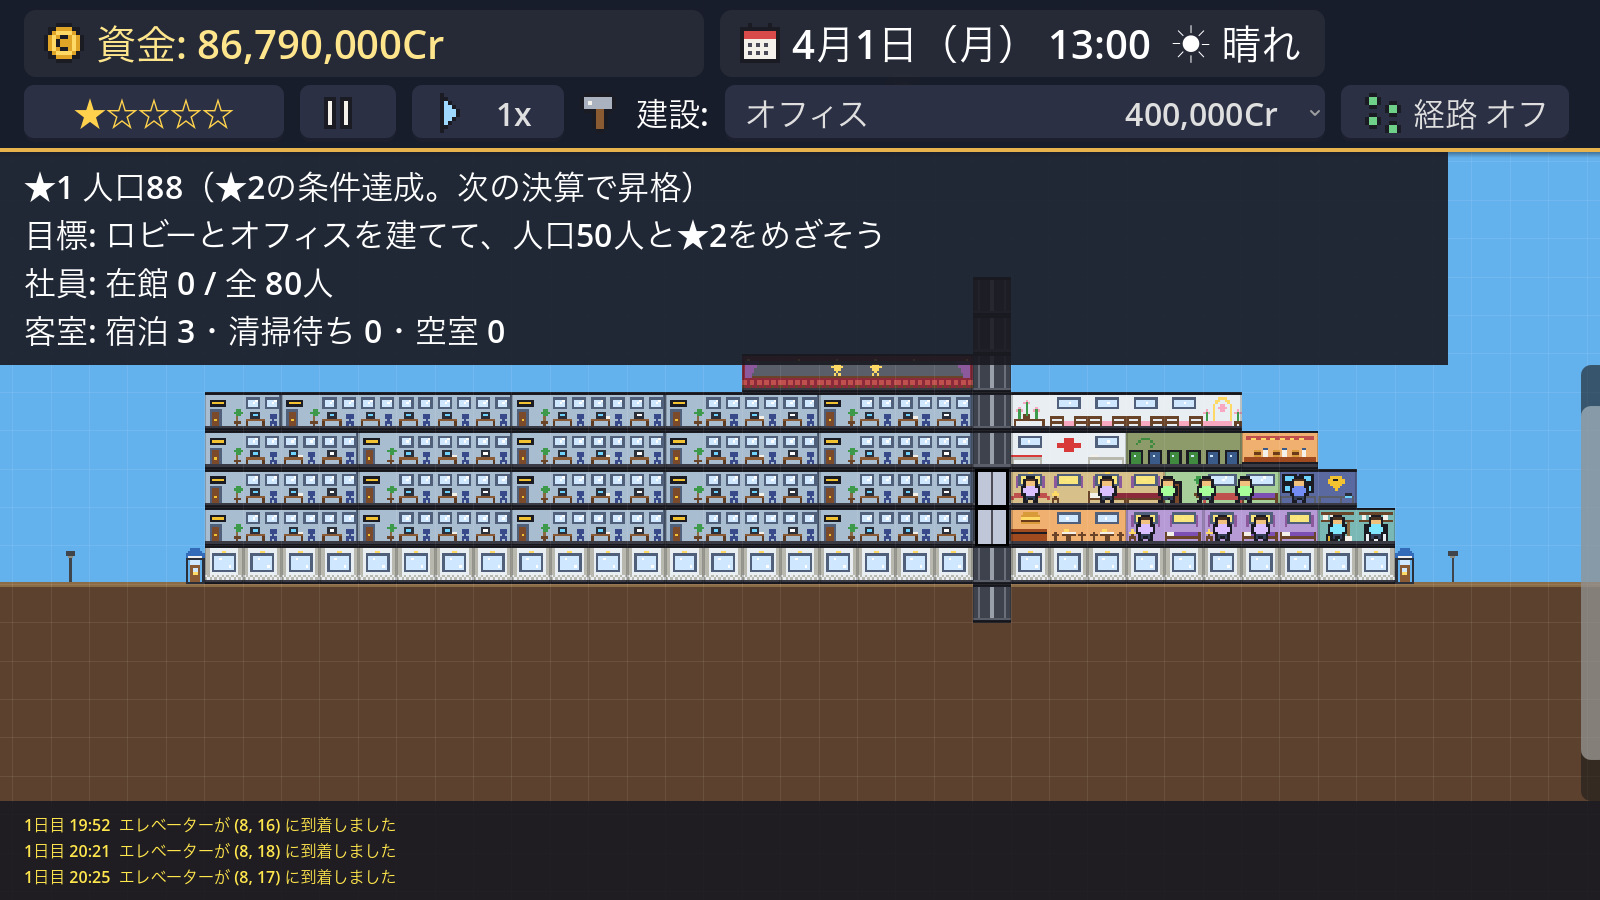
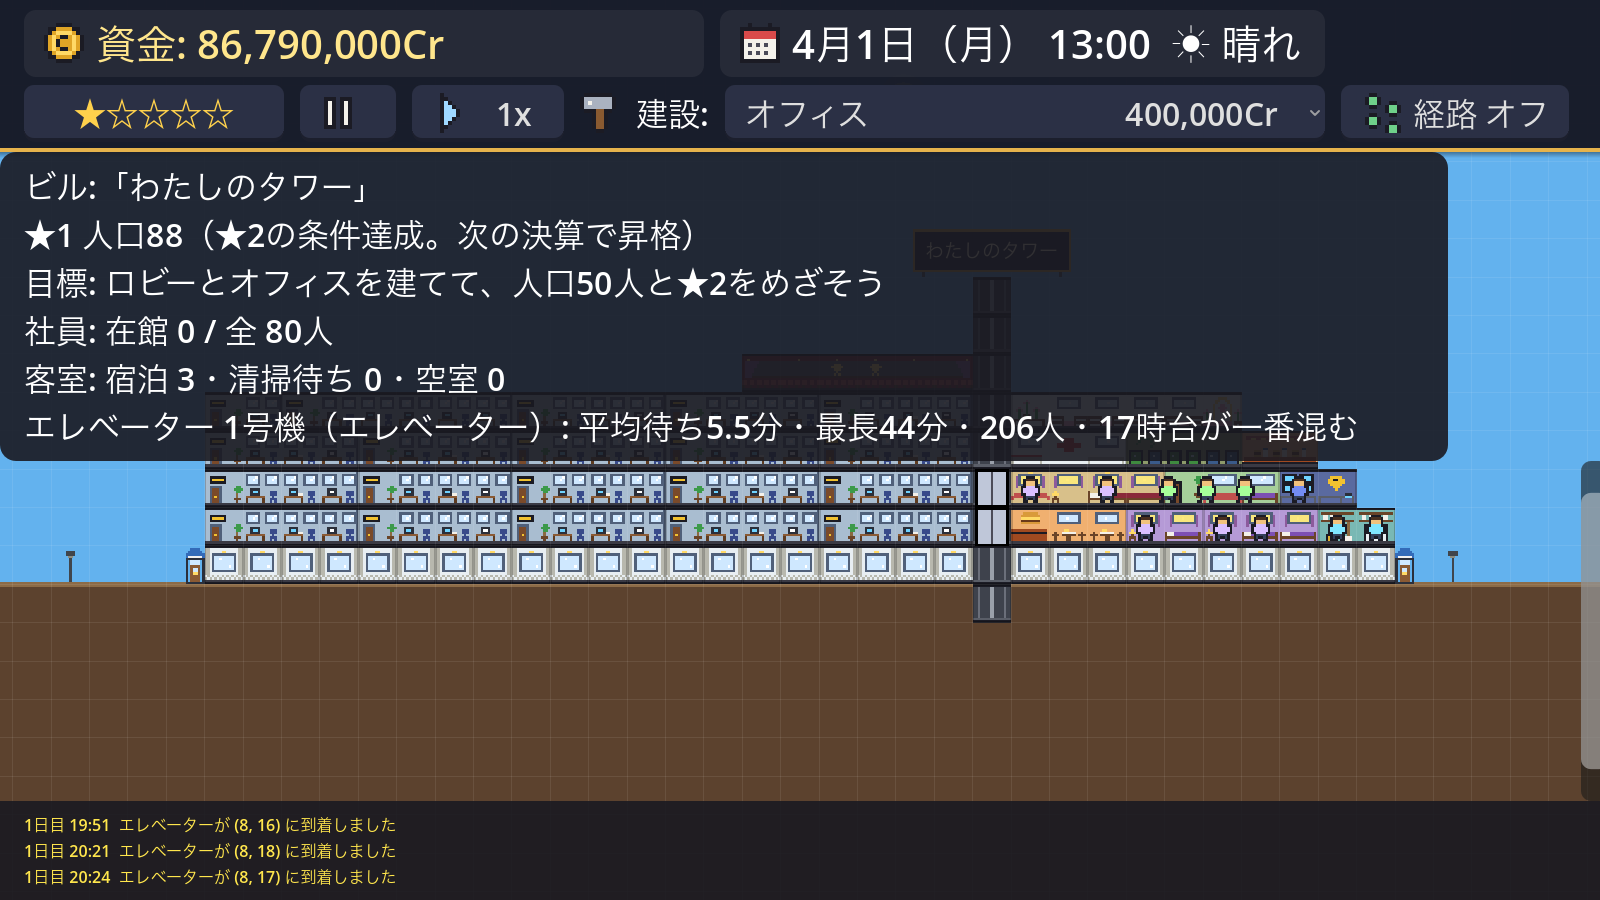
feat: ビルに名前を付けて、屋上の看板に出す
- タイトル画面の入力欄と、メニューの「ビルの名前を変える」で付ける（16文字まで）
- 一番上の階の屋根に看板を立てる（夜は光る）。ビルの状況・ウィンドウのタイトル・セーブの枠・タワー完成の画面にも出す
- 名前を打っている間は、WASDで画面を動かさない

Changed region(s): [[0.0, 0.1867, 0.9062, 0.5289], [0.9688, 0.4044, 1.0, 0.56], [0.9688, 0.84, 1.0, 0.8711]]

diff --git a/docs/Game_Spec.md b/docs/Game_Spec.md
@@ -110,6 +110,10 @@
 - `icon.svg` はビルの絵。`project.godot` に説明とバージョンを入れてある。
 - 書き出しにはエクスポートテンプレート（Godot エディタからダウンロード）が必要。
 
+### ビルの名前 ✅
+- `main.tower_name`（16文字まで。空ならはじめの名前「わたしのタワー」）。タイトル画面の入力欄と、メニューの「ビルの名前を変える」で付ける（`set_tower_name()`）。名前を打っている間は、WASDで画面を動かさない。
+- `view/tower_sign.gd` が、ビルの一番上の階の真ん中の屋根に看板を立てて名前を描く（夜は光る。文字は画面の拡大率に合わせた大きさで描き、ぼやけさせない）。ビルの状況の一番上・ウィンドウのタイトル・セーブの枠・「タワー完成」の画面にも出る。セーブに残る。
+
 ### エレベーターの成績 ✅
 - 人が乗り場で待ち始めた時刻（`resident.wait_started`）から、カゴに乗るまでの分を `elevator_system.record_wait()` がシャフトごとに数える（乗った人数・待った分の合計と最長・時間帯ごとの人数）。日付が変わると数え直す。
 - ビルの状況に、平均待ち時間の長いシャフトから3本まで出し（`stats_lines()`）、シャフトのカーソルの説明にも出す。シャフトは左から「1号機・2号機…」（`shaft_order`。建設・撤去のときに数え直す）。

diff --git a/README.md b/README.md
@@ -159,6 +159,7 @@ godot --path . -s res://tools/generate_readme_images.gd
 | 開いているパネルを閉じる | Esc（操作説明・メッセージの記録・収支のグラフ・ビルの状況） |
 | メッセージの記録 | ⌘L（ゲーム開始からのメッセージを時刻つきで表示） |
 | 画面の拡大・縮小 | ⌘+ / ⌘-（⌘0 でもとの大きさに戻る） |
+| ビルの名前 | タイトル画面の「ビルの名前」に入れて始める。遊んでいる途中は、メニューの「ゲーム > ビルの名前を変える」（16文字まで）。屋上の看板・ビルの状況・ウィンドウのタイトル・セーブの枠に出る |
 | 取り消し | ⌘Z（直前の建設・撤去を1つずつ戻し、払った建設費・撤去費用も戻る。その日の決算までの操作だけ。戻した建物は建てたばかりの状態から始まる） |
 | セーブ | ⌘S（3つの枠から選んで保存。毎日0時の決算のあとにはオートセーブもされる） |
 | セーブデータの読み込み | ⌘O（オートセーブと3つの枠から選んで、続きを遊ぶ） |

diff --git a/Tasks.md b/Tasks.md
@@ -201,6 +201,6 @@
 - [x] テナントからの頼みごと: 「3日以内に、この階のエレベーター待ちを減らしてほしい」のような頼み。こなすとお礼、放っておくと評価が下がる
 - [x] 季節のにぎわい: 正月・夏休み・クリスマスなどに、店や映画館のお客さんが増える
 - [x] エレベーターの成績: カゴごとの平均待ち時間や混む時間帯を「ビルの状況」に出す
-- [ ] ビルに名前を付ける: タイトルや屋上の看板に出る
+- [x] ビルに名前を付ける: タイトルや屋上の看板に出る
 - [ ] 人の気持ちの吹き出し: 怒っている人の頭上に「💢」、満足している人に「♪」
 - [ ] BGMを時間帯と★で変える
